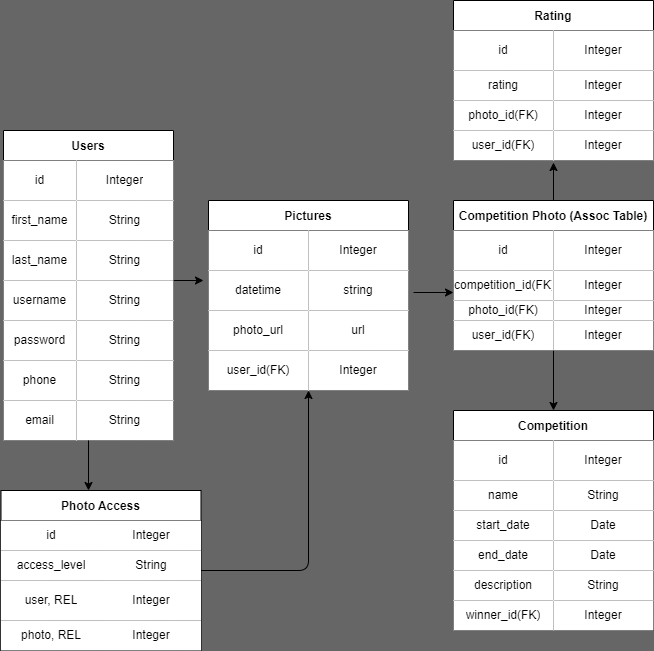
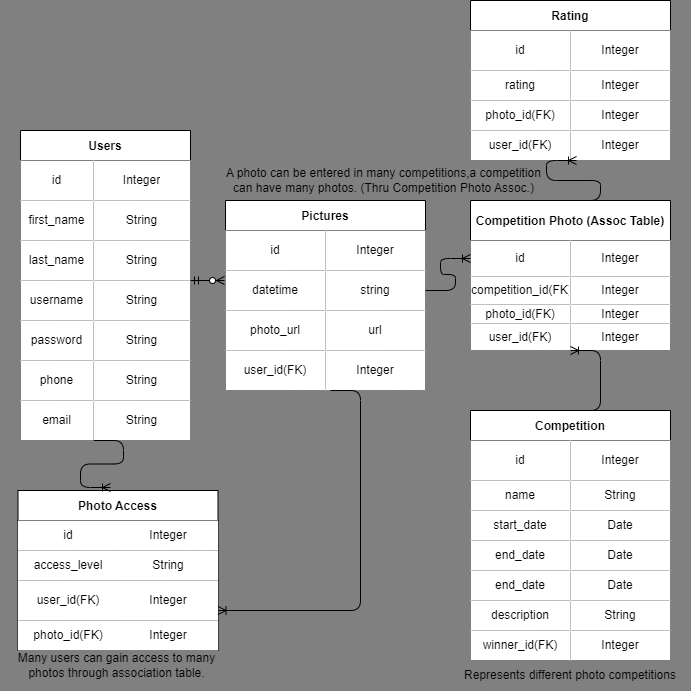
Updated database schema and started models

diff --git a/server/models.py b/server/models.py
@@ -1,6 +1,50 @@
 from sqlalchemy_serializer import SerializerMixin
 from sqlalchemy.ext.associationproxy import association_proxy
 
+from flask_sqlalchemy import SQLAlchemy  # add to pipfile
+from sqlalchemy import MetaData, func  # add to pipfile
+from sqlalchemy.orm import validates  # add to pipfile
+from datetime import datetime, timedelta  # add to pipfile
+import re  # add to pipfile
+
 from config import db
 
-# Models go here!
+metadata = MetaData(
+    naming_convention={
+        "fk": "fk_%(table_name)s_%(column_0_name)s_%(referred_table_name)s",
+        "uq": "uq_%(table_name)s_%(column_0_name)s",
+        "ck": "ck_%(table_name)s_%(constraint_name)s",
+        "fk": "fk_%(table_name)s_%(column_0_name)s_%(referred_table_name)s",
+    }
+)
+
+db = SQLAlchemy(metadata=metadata)
+
+class User (db.Model, SerializerMixin):
+    __tablename__= "users"
+    
+    id = db.Column(db.Integer, primary_key=True)
+    first_name = db.Column(db.String, nullable=False)
+    last_name = db.Column(db.String, nullable=False)
+    username = db.Column(db.String, nullable=False, unique=True)
+    password = db.Column(db.String, nullable=False)
+    phone = db.Column(db.String, nullable=False)
+    email = db.Column(db.String, nullable=False, unique=True) 
+    
+class Photo(db.Model, SerializerMixin):
+    __tablename__="photos"
+    
+    id = db.Column(db.Integer, primary_key=True)
+    date_time = db.Column(db.String)
+    photo_url = db.Column(db.String, nullable=False)
+    
+    user_id = db.Column(db.Integer, db.ForeignKey("users.id"))
+    
+class PhotoAccess(db.Model, SerializerMixin):
+    __tablename__="photo_access"
+    
+    id = db.Column(db.Integer, primary_key=True)
+    access_level = db.Column(db.String)
+    
+    user_id = db.Column(db.Integer, db.ForeignKey("users.id"))    
+    photo_id = db.Column(db.Integer, db.ForeignKey("photo.id"))
